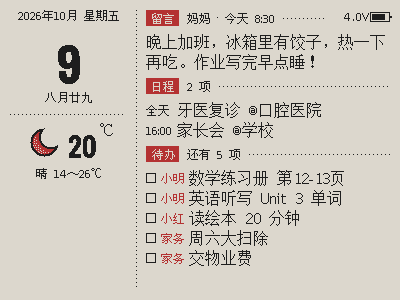
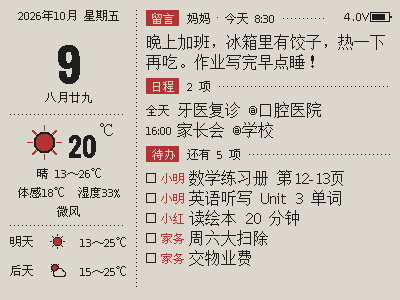
Dashboard: fill the left column below today's weather
Below today's weather the column stopped short (the 4.2" had no forecast at
all). Now, as many as fit, in order of priority: the next two days, feel and
humidity, wind and rain chance, the third day; the room left is shared out
between them so the column reaches the bottom.

diff --git a/server/src/screens/dashboard.ts b/server/src/screens/dashboard.ts
@@ -9,7 +9,7 @@ import { drawWeatherIcon } from "../render/weatherIcons.js";
 import { type Panel, Ink } from "../panels.js";
 import { WEEKDAY, LUNAR_MONTH, LUNAR_DATE, lunarOf, festivalOf, holidayOf, nextHoliday } from "../data/calendar.js";
 import { hitokoto, attribution, type Quote } from "../data/hitokoto.js";
-import { getWeather, getPlace, describeCode, type WeatherData } from "../data/weather.js";
+import { getWeather, getPlace, describeCode, windDirection, windLevel, type WeatherData } from "../data/weather.js";
 import { messagesFor, type Message } from "../data/messages.js";
 import type { CalEvent } from "../data/ics.js";
 import { currentDevice } from "../scope.js";
@@ -113,26 +113,53 @@ export function renderDashboard(panel: Panel, ctx: ScreenContext): Canvas {
     const line = `${desc.text} ${Math.round(today.tmin)}～${Math.round(today.tmax)}℃`;
     const ly = wTop + icon + (large ? 14 : 8) + hf.ascent;
     print(c, hf, ellipsize(hf, line, lw - 2 * pad), centeredX(hf, ellipsize(hf, line, lw - 2 * pad), cx), ly, Ink.Black);
-    let fy = ly;
-    if (today.pop >= 30) {
-      const r = `降水 ${today.pop}%`;
-      fy += large ? 24 : 16;
-      print(c, hf, r, centeredX(hf, r, cx), fy, Ink.Red);
+    // below, as many as fit (in this order of priority): the next two days, today's feel and
+    // humidity, wind and rain, the third day; the room left is shared out between them, so
+    // the column reaches down to the bottom instead of stopping short
+    const sf = large ? wqy12 : wqy9;
+    const dayH = large ? 44 : 26, lineH = large ? 26 : 16, ruleH = large ? 12 : 6;
+    const sp = large ? " " : "";
+    const rain = today.pop >= 30 ? `降水${sp}${today.pop}%` : "";
+    const lvl = windLevel(w.current.windKmh);
+    const wind = lvl <= 2 ? "微风" : `${windDirection(w.current.windDir)}${sp}${lvl}级`;
+    type Item = { kind: "line"; text: string; red?: string } | { kind: "day"; i: number };
+    const items: (Item & { prio: number })[] = [
+      { kind: "line", text: `体感${sp}${Math.round(w.current.feels)}℃  湿度${sp}${w.current.humidity}%`, prio: 2 },
+      { kind: "line", text: `${wind}${rain ? "  " : ""}`, red: rain, prio: 3 },
+      ...[1, 2, 3].filter((i) => i < w.daily.length).map((i) => ({ kind: "day" as const, i, prio: i === 3 ? 4 : i - 1 })),
+    ];
+    const hOf = (it: Item) => (it.kind === "day" ? dayH : lineH);
+    const top = ly + Math.round(hf.ascent * 0.4);
+    const room = H - pad - top;
+    const chosen = new Set<Item>();
+    let used = 0;
+    for (const it of [...items].sort((a, b) => a.prio - b.prio)) {
+      const extra = hOf(it) + (it.kind === "day" && ![...chosen].some((c) => c.kind === "day") ? ruleH : 0);
+      if (used + extra <= room) { chosen.add(it); used += extra; }
     }
-    // 3.98": the next two days below
-    if (large) {
-      fy += 22;
-      for (let i = 1; i <= 2 && i < w.daily.length && fy + 40 < H - pad - 24; i++) {
-        const dd = w.daily[i];
-        if (i === 1) c.dottedH(pad, lw - pad, fy, Ink.Black, 1, 3);
-        const mid = fy + 22;
-        const label = i === 1 ? "明天" : "后天";
-        print(c, wqy12, label, pad, centeredAt(wqy12, label, 0, mid).baseline, Ink.Black);
-        drawWeatherIcon(c, describeCode(dd.code).icon, true, pad + 44, mid - 14, 28);
-        const r = `${Math.round(dd.tmin)}～${Math.round(dd.tmax)}℃`;
-        print(c, wqy12, r, lw - pad - width(wqy12, r), centeredAt(wqy12, r, 0, mid).baseline, Ink.Black);
-        fy += 44;
+    const shown = items.filter((it) => chosen.has(it));
+    const spare = Math.min(large ? 16 : 8, Math.floor((room - used) / (shown.length + 1)));
+    let fy = top + spare;
+    let ruled = false;
+    for (const it of shown) {
+      if (it.kind === "line") {
+        const t = ellipsize(sf, it.text + (it.red ?? ""), lw - 2 * pad);
+        const base = centeredAt(sf, t, 0, fy + lineH / 2).baseline;
+        const x = print(c, sf, it.red ? t.slice(0, it.text.length) : t, centeredX(sf, t, cx), base, Ink.Black);
+        if (it.red && t.length > it.text.length) print(c, sf, t.slice(it.text.length), x, base, Ink.Red);
+        fy += lineH + spare;
+        continue;
       }
+      if (!ruled) { c.dottedH(pad, lw - pad, fy + Math.round(ruleH / 2), Ink.Black, 1, 3); fy += ruleH; ruled = true; }
+      const dd = w.daily[it.i];
+      const mid = fy + Math.round(dayH / 2);
+      const label = ["", "明天", "后天", "大后天"][it.i];
+      print(c, sf, label, pad, centeredAt(sf, label, 0, mid).baseline, Ink.Black);
+      const is = large ? 28 : 18;
+      drawWeatherIcon(c, describeCode(dd.code).icon, true, pad + (large ? 56 : 38), mid - Math.round(is / 2), is);
+      const r = `${Math.round(dd.tmin)}～${Math.round(dd.tmax)}℃`;
+      print(c, sf, r, lw - pad - width(sf, r), centeredAt(sf, r, 0, mid).baseline, Ink.Black);
+      fy += dayH + spare;
     }
   } else {
     const note = ctx.weatherNote ?? "未设置天气城市";
